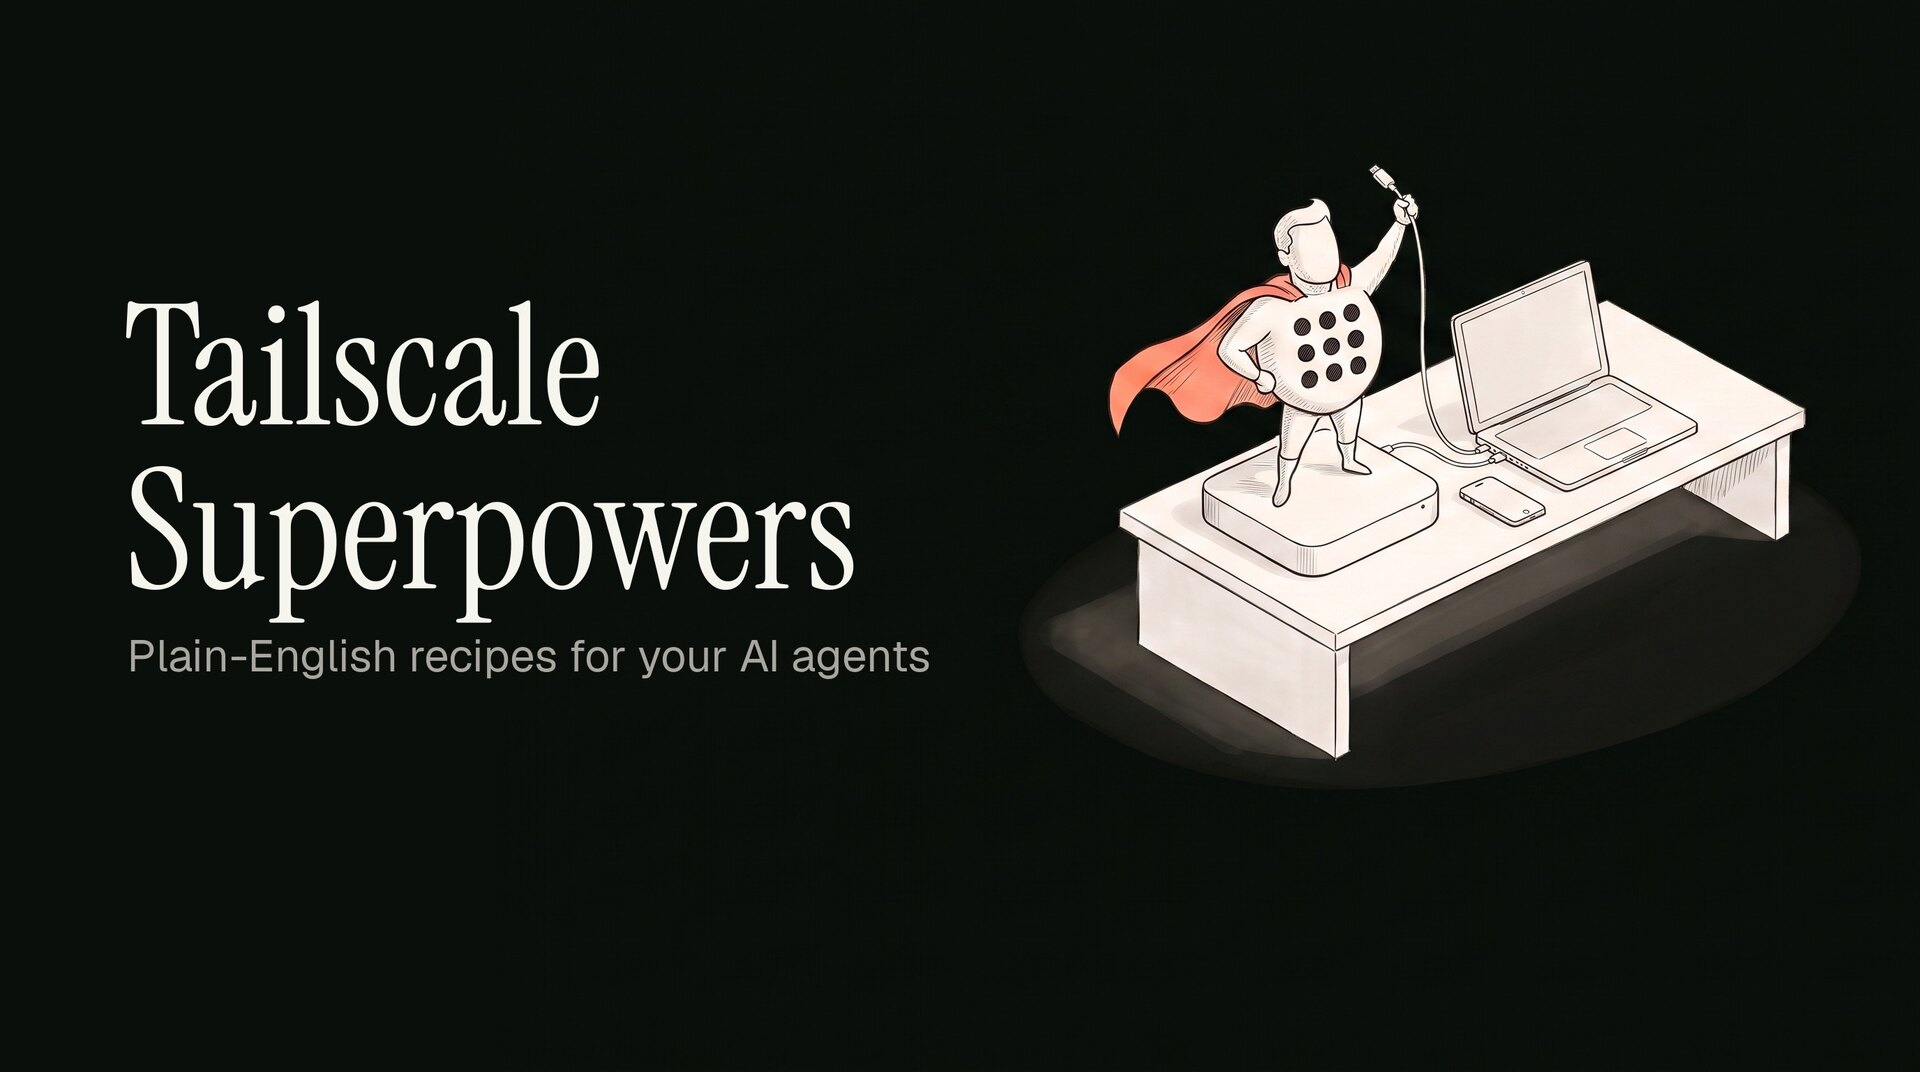
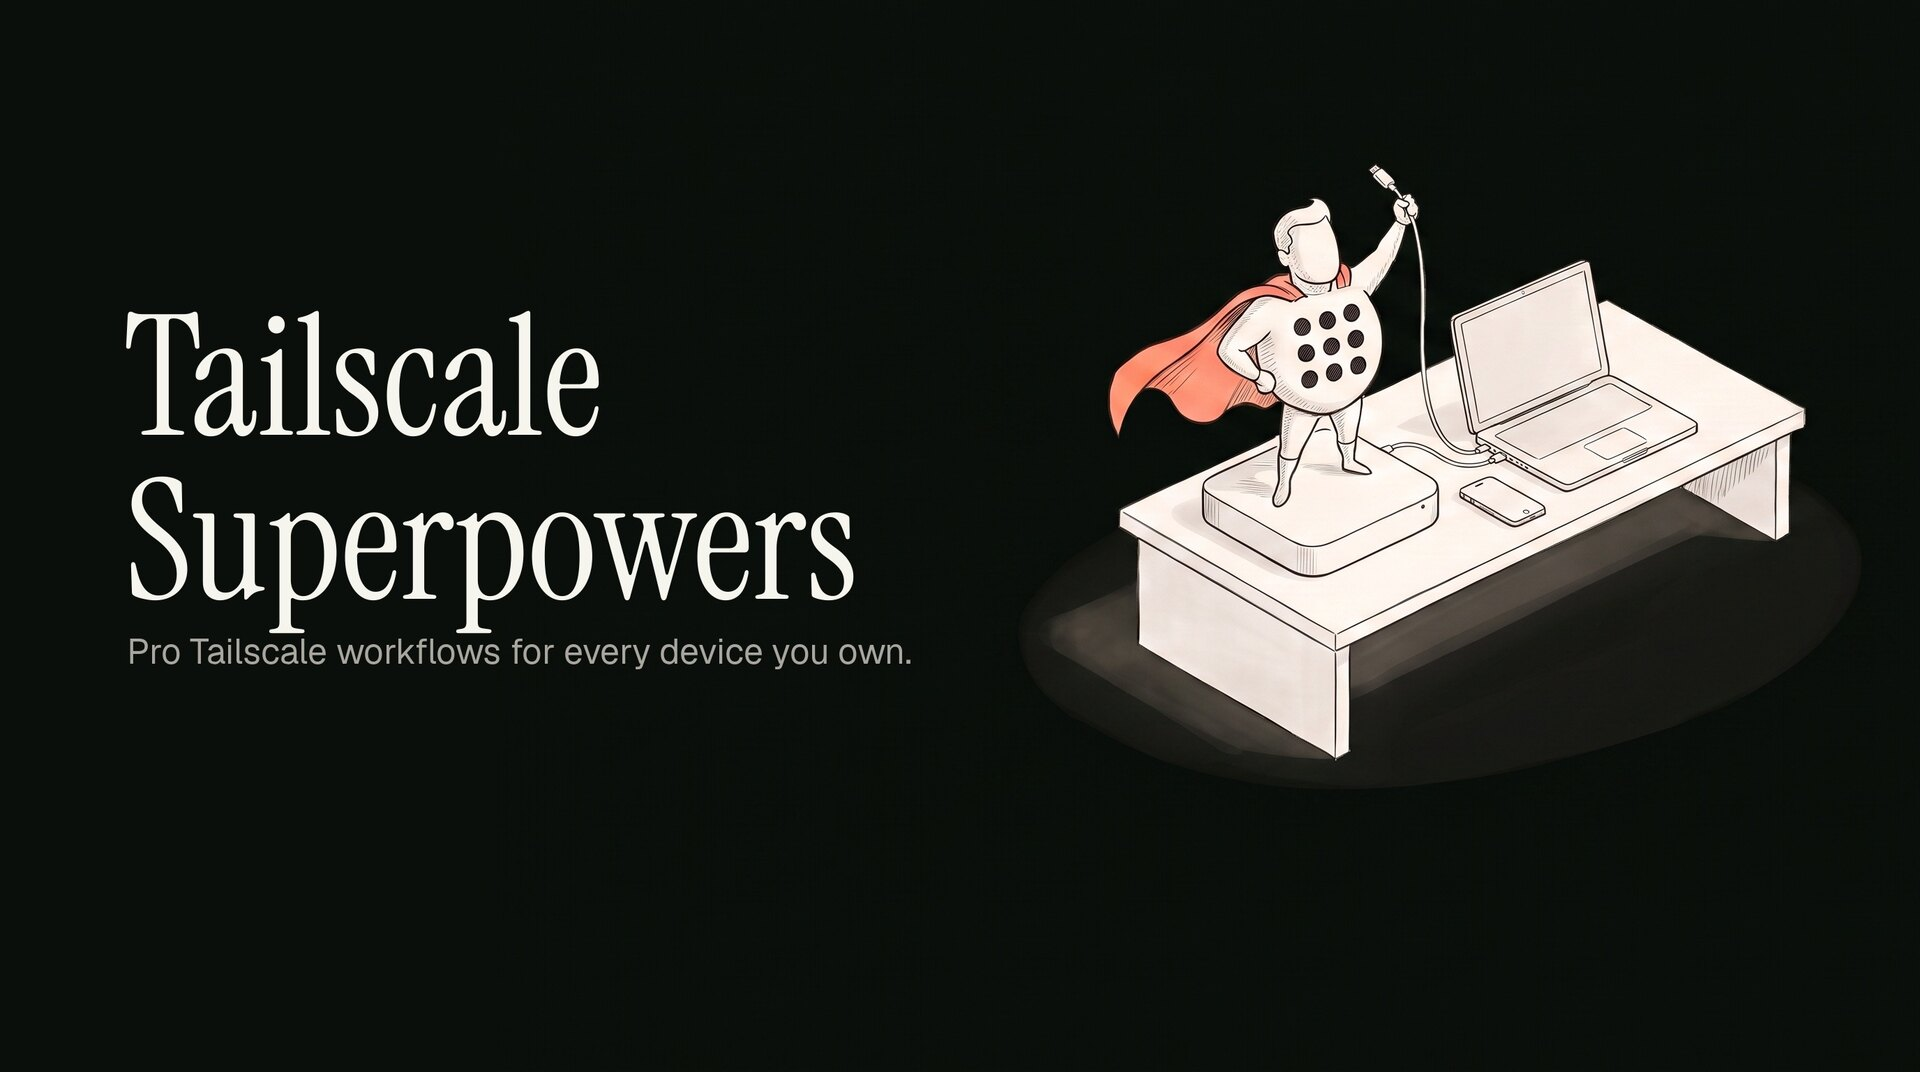
Use the new tagline on the hero, README, and skill

Changed region(s): [[0.0625, 0.2771, 0.5, 0.6465], [0.25, 0.2771, 0.2812, 0.3078]]

diff --git a/skills/tailscale-superpowers/SKILL.md b/skills/tailscale-superpowers/SKILL.md
@@ -1,12 +1,12 @@
 ---
 name: tailscale-superpowers
-description: Plain-English recipes for everyday Tailscale tasks on a few personal Macs, with a safety tier on every command. Use when someone wants to route their traffic through a home computer on hotel or plane wifi, send a file to their phone or another Mac, help fix a family member's Mac over SSH, finish setting up a new Mac remotely, open a site running on their laptop from their phone, share a local site publicly for a demo, check whether another machine is online or why it's slow, let agents on different machines ask each other for help, check every machine at once, see another Mac's screen, check on agents from a phone, share a folder between Macs, reach a home printer or network drive while away, give a contractor access to one Mac, or set up one-word shortcuts into another Mac. A community skill for Tailscale, not made by or affiliated with Tailscale Inc.
+description: Pro Tailscale workflows for every device you own, written for a few personal Macs, with a safety tier on every command. Use when someone wants to route their traffic through a home computer on hotel or plane wifi, send a file to their phone or another Mac, help fix a family member's Mac over SSH, finish setting up a new Mac remotely, open a site running on their laptop from their phone, share a local site publicly for a demo, check whether another machine is online or why it's slow, let agents on different machines ask each other for help, check every machine at once, see another Mac's screen, check on agents from a phone, share a folder between Macs, reach a home printer or network drive while away, give a contractor access to one Mac, or set up one-word shortcuts into another Mac. A community skill for Tailscale, not made by or affiliated with Tailscale Inc.
 license: MIT
 ---
 
 # Tailscale Superpowers
 
-For your agents.
+Pro Tailscale workflows for every device you own.
 
 A community skill for Tailscale. It isn't made by, affiliated with, or endorsed by Tailscale Inc.
 

diff --git a/README.md b/README.md
@@ -1,12 +1,12 @@
 <p align="center">
-  <img src="assets/hero.jpg" alt="Tailscale Superpowers: plain-English recipes for your AI agents. A pen-and-ink drawing of a small superhero with a dot-grid body and a coral-red cape, standing on a Mac mini and holding up a cable wired to a laptop." width="100%">
+  <img src="assets/hero.jpg" alt="Tailscale Superpowers: Pro Tailscale workflows for every device you own. A pen-and-ink drawing of a small superhero with a dot-grid body and a coral-red cape, standing on a Mac mini and holding up a cable wired to a laptop." width="100%">
 </p>
 
 # Tailscale Superpowers
 
-For your agents.
+Pro Tailscale workflows for every device you own.
 
-Plain-English Tailscale recipes for people who run AI agents on a few Macs. Your agent gets the exact commands for everyday jobs, like safe hotel wifi, printing at home from anywhere, or letting a contractor into one Mac, plus clear rules about what it may do without asking you.
+A skill for the AI agents on your Macs. Your agent gets the exact commands for everyday jobs, like safe hotel wifi, printing at home from anywhere, or letting a contractor into one Mac, plus clear rules about what it may do without asking you.
 
 This is an independent, community-made skill. It isn't made by, affiliated with, or endorsed by Tailscale Inc.
 
@@ -18,9 +18,9 @@ The one I use most:
 
 > Hotel/airplane wifi sketchy or slow? I route all my traffic through my house in Austin with one tap.
 
-## Ask in plain words
+## What you can ask
 
-Once it's installed, you can say things like:
+Once it's installed, say things like:
 
 - "The hotel wifi is sketchy. Route me through my home Mac."
 - "Send this PDF to my phone."
